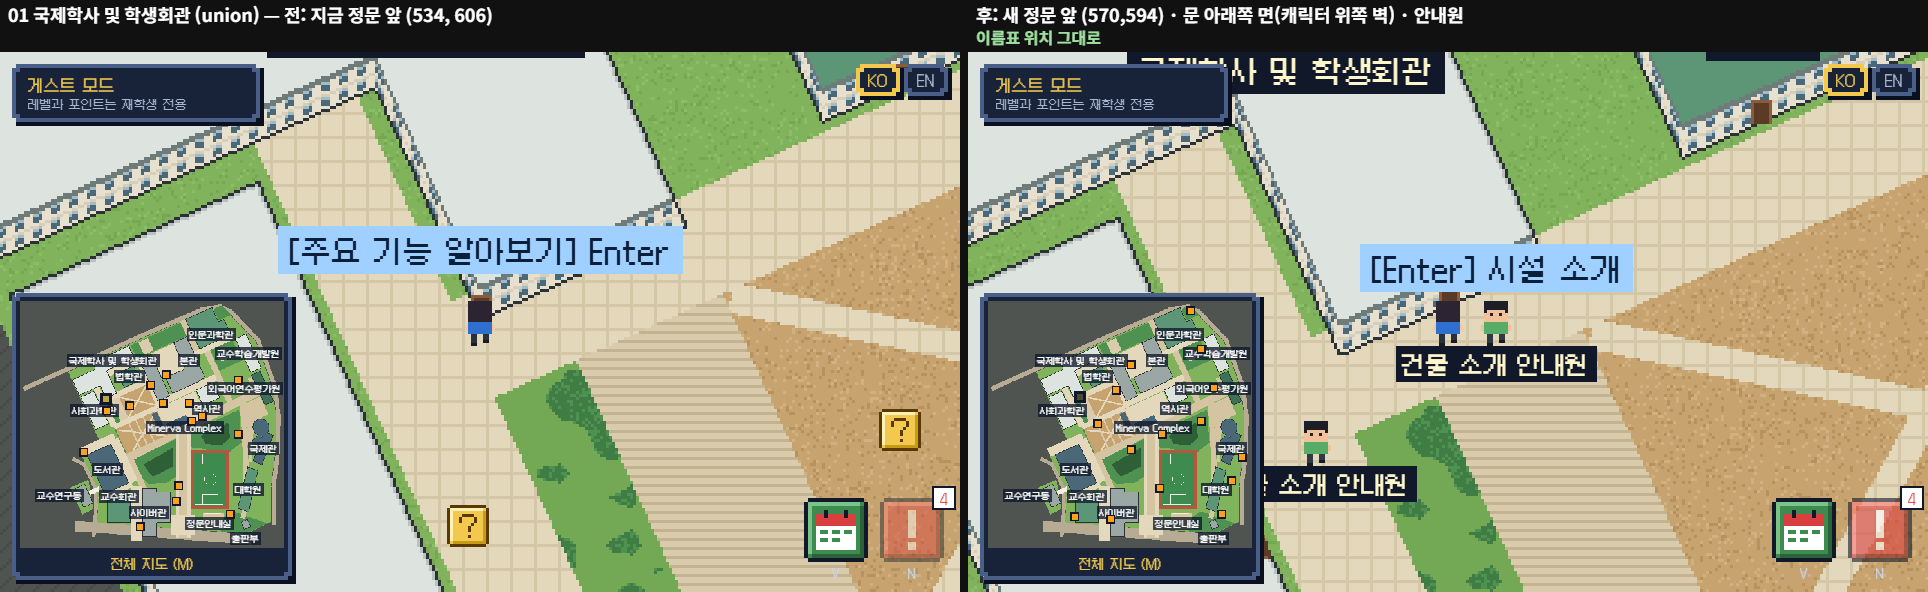
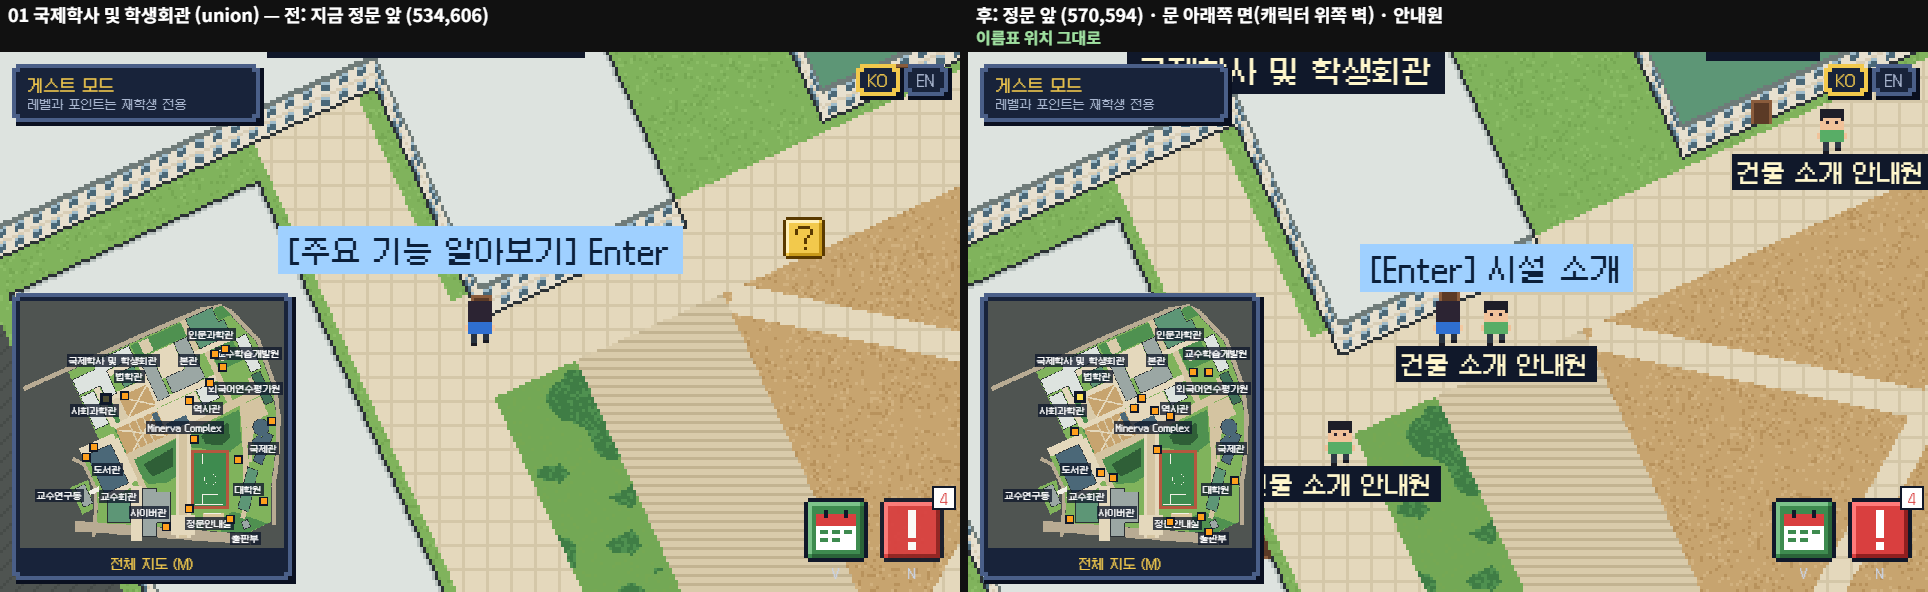
feat: 법학관에 건물 소개 안내원 추가, 정문안내실은 시설 소개 대상에서 제외, 안내원 글자 지붕 걸림 줄임
- 11/25 종헌 결정: 정문안내실(gatehouse)은 안내원 · "[Enter] 시설 소개" · 클릭/터치 창 모두 없음.
  buildingInfo.js 데이터는 그대로 두고 officeView.js GUIDE_EXCLUDED 한 곳에서만 뺌(이름표 · 미니맵 그대로)
- 법학관(law): 자동 계산 정문 옆에 안내원, 나머지와 같은 규칙(통로 · GUIDE_RANGE · Enter/클릭/터치)
- 안내원 글자가 지붕에 걸리면 통로를 막지 않는 한 벽에서 한 칸 더(16px) 물러섬(교수회관 · 대학원 · 사회과학관 등)
- 테스트: 정문안내실 안내원 없음 · 시설 소개 안 열림, 법학관 안내원 있음, 교수회관 글자가 지붕 밖
- 스크린샷: 법학관 · 정문안내실 추가, 안내원 자리가 바뀐 건물 다시 찍음

diff --git a/src/data/guides.js b/src/data/guides.js
@@ -1,10 +1,12 @@
-import { BUILDINGS, BUILDING_BASE, CELL_PX, FIXED_DOOR_IDS, doorFrontOf, doorOf, feetOverlap, fits, isReachable, matAt } from "./campusV2.js";
+import { BUILDINGS, BUILDING_BASE, CELL_PX, doorFrontOf, doorOf, feetOverlap, fits, isReachable, matAt } from "./campusV2.js";
+import { hasOfficeInfo } from "../ui/officeView.js";
 
 /*
  * 맵 v2에서 "건물 소개 안내원"(정문 옆 NPC)을 세울 자리를 정합니다(브라우저 API 없음 → 테스트 가능).
- * 대상: 정문을 지정한 11개 건물(campusV2Data.js DOOR_OVERRIDES). 사무실 안내가 있는지는 world.js가 봅니다.
+ * 대상: 사무실 안내가 있는 건물(officeView.js hasOfficeInfo, 제외 목록 GUIDE_EXCLUDED의 정문안내실은 빠짐).
+ *       정문을 지정한 11개 건물(DOOR_OVERRIDES)과 법학관(자동 계산 정문) — 11/25 종헌 결정.
  * - 문 앞 칸 옆(문을 바라보고 섰을 때 옆쪽): 아래 · 위쪽 면의 문은 좌우로, 왼쪽 · 오른쪽 면의 문은 위아래로 16 · 24 · 32px.
- *   벽에서 한 칸(8px) 물러선 자리도 후보로 봅니다(꺾인 외벽 · 글자가 지붕에 걸치는 자리).
+ *   벽에서 한두 칸(8 · 16px) 물러선 자리도 후보로 봅니다(꺾인 외벽 · 글자가 지붕에 걸치는 자리, 예: 교수회관).
  * - 걸어서 닿는 칸, 어느 문 앞 칸과도 겹치지 않음, 안내원 칸을 막아도 주변 길이 끊기지 않음.
  * - 그 가운데 안내원 아래 글자가 건물 지붕을 가장 적게 덮는 자리(글자는 되도록 땅 위). 같으면 벽에 붙은 자리 · 문에 가까운 자리.
  * - 건물 이름표는 이 글자 칸을 피해 자리를 잡습니다(buildingLabels.js placeBuildingLabel의 avoid).
@@ -46,13 +48,13 @@ const spots = new Map();
 export function guideSpotOf(building) {
   if (spots.has(building.id)) return spots.get(building.id);
   let best = null;
-  const front = FIXED_DOOR_IDS.includes(building.id) ? doorFrontOf(building) : null;
+  const front = hasOfficeInfo(building.id) ? doorFrontOf(building) : null;
   if (front) {
     const face = doorOf(building).face;
     const along = face === "left" || face === "right" ? [0, 1] : [1, 0];
     const outward = { down: [0, 1], up: [0, -1], right: [1, 0], left: [-1, 0] }[face];
     const fronts = BUILDINGS.map(doorFrontOf).filter(Boolean);
-    const offsets = [0, 8].flatMap((out) => [-16, 16, -24, 24, -32, 32].map((off) => [off, out]));
+    const offsets = [0, 8, 16].flatMap((out) => [-16, 16, -24, 24, -32, 32].map((off) => [off, out]));
     for (const [off, out] of offsets) {
       const spot = { x: front.x + along[0] * off + outward[0] * out, y: front.y + along[1] * off + outward[1] * out };
       if (!fits(spot.x, spot.y) || !isReachable(spot.x, spot.y)) continue;
@@ -68,7 +70,7 @@ export function guideSpotOf(building) {
 }
 
 // 모든 안내원 글자 칸(건물 이름표가 피할 자리)
-export const guideTextRects = () => FIXED_DOOR_IDS.map((id) => guideSpotOf(BUILDINGS.find((b) => b.id === id))).filter(Boolean).map(guideTextRect);
+export const guideTextRects = () => BUILDINGS.map(guideSpotOf).filter(Boolean).map(guideTextRect);
 
 // 퀴즈 상자(16×16, 가운데 기준) 자리가 안내원 · 안내원 글자와 떨어져 있는지
 export const awayFromGuides = (box, guides) =>

diff --git a/src/data/world.js b/src/data/world.js
@@ -9,10 +9,10 @@ import { awayFromGuides, guideSpotOf } from "./guides.js";
  * - 기본: v2(정문 진입로 기준 회전, 미터 다각형 → 텍스처, 1m 판정 격자) — src/data/campusV2.js
  * - 되돌리기: 주소에 ?map=v1 → 옛 타일맵(북쪽 위 88×90) — src/data/campus.js. 12/2 기능 동결 뒤 이상 없으면 지웁니다.
  * 두 맵 모두 월드 픽셀 좌표로 같은 모양의 값을 돌려줍니다.
- * guide: 정문 옆 "건물 소개 안내원" 자리(정문을 지정한 11개 건물 중 사무실 안내가 있는 건물만, 나머지는 null).
+ * guide: 정문 옆 "건물 소개 안내원" 자리(사무실 안내가 있는 건물만 — 정문 지정 11곳 + 법학관, 정문안내실 제외. 나머지는 null).
  */
 // 옛 맵(v1)은 옛 안내원 자리(npc), v2는 src/data/guides.js가 정한 자리.
-const guideOf = (p, spot) => (p.kind === "building" && v2.FIXED_DOOR_IDS.includes(p.id) && hasOfficeInfo(p.id) && spot ? spot : null);
+const guideOf = (p, spot) => (p.kind === "building" && hasOfficeInfo(p.id) && spot ? spot : null);
 export const MAP_VERSION =
   typeof location !== "undefined" && new URLSearchParams(location.search).get("map") === "v1" ? "v1" : "v2";
 

diff --git a/src/ui/officeView.js b/src/ui/officeView.js
@@ -7,8 +7,16 @@ import { BUILDING_INFO, byRoom, isChecked } from "../data/buildingInfo.js";
 // 안내원에서 이 거리(월드 px) 안이면 안내원 머리 위에 문구를 띄웁니다. 예전 입구 기준(OFFICE_RANGE 4타일)과 같게 시작합니다.
 export const GUIDE_RANGE = 4 * 16;
 
-// 사무실 · 시설 안내가 있는 건물인지(공식 페이지와 대조한 건물만). 없거나 확인 전이면 안내원을 세우지 않습니다.
+// 건물 정보(buildingInfo.js)는 그대로 두고, 건물 소개 안내원 · 시설 소개 창 대상에서만 빼는 건물과 이유.
+// 이름표 · 미니맵 · 전체 지도 표시는 그대로입니다.
+export const GUIDE_EXCLUDED = {
+  gatehouse: "11/25 종헌 결정: 기능 없음",
+};
+
+// 사무실 · 시설 안내가 있는 건물인지(공식 페이지와 대조한 건물만). 없거나 확인 전이거나 제외 목록에 있으면
+// 안내원을 세우지 않고 시설 소개 창도 열리지 않습니다.
 export const hasOfficeInfo = (placeId) => {
+  if (Object.hasOwn(GUIDE_EXCLUDED, placeId)) return false;
   const info = BUILDING_INFO[placeId];
   return Boolean(info && isChecked(info));
 };

diff --git a/docs/ARCHITECTURE.md b/docs/ARCHITECTURE.md
@@ -96,7 +96,7 @@ class explore,quiz,notice,progress,rules,userDb,login,limiter,mapInfo,newApi,vec
 
 | 상자 | 주요 파일 | 담당 |
 | --- | --- | --- |
-| 캠퍼스 탐험 | `src/scenes/CampusScene.js`, `src/scenes/MapScene.js`(전체 지도 · 나침반), `src/data/world.js`(맵 선택: 기본 v2, `?map=v1`이면 옛 타일맵 — 12/2 동결 뒤 이상 없으면 v1 삭제). **v2**: `src/data/campusV2Data.js`(미터 좌표 다각형) → `src/data/campusV2.js`(정문 진입로 기준 65.6° 회전 · 픽셀 채우기 · 1m 판정 격자 · 발 상자 이동 · 입구 · 퀴즈 상자 자리) → `src/gfx/campusV2Paint.js` · `campusV2Texture.js`(2×2 조각 텍스처, 축소 지도). **v1**: `src/data/campus.js`(88×90 타일), `src/gfx/textures.js`. 기준은 [`docs/GRAPHICS.md`](GRAPHICS.md). 건물 이름표: `src/data/buildingLabels.js`(입구에 가까운 지붕 위, 넘치면 작게 → 두 줄 → 지붕 가운데, 캐릭터보다 아래 깊이, 안내원 글자 칸은 피함). **정문 고정값**: `campusV2Data.js` `DOOR_OVERRIDES`(11개 건물, 11/25 종헌 지정 자리 · 외벽 면) → `campusV2.js` `computeDoors`가 자동 입구를 덮어씀, 문 그림은 면 방향대로. **건물 소개 안내원**: `src/data/guides.js`(정문 옆 자리 · 글자 칸) → `world.js` `place.guide` → `CampusScene`(안내원 · "건물 소개 안내원" 글자 · 머리 위 "[Enter] 시설 소개", Enter · 안내원 클릭 · 문구 터치로 `src/ui/officeOverlay.js` 창, 거리 `src/ui/officeView.js` `GUIDE_RANGE`, 안내원 칸은 지나갈 수 없음). 테스트 `tests/buildingGuide.test.js` · `tests/campusV2.test.js`(통로 · 끼임 방지 포함) · `tests/buildingLabels.test.js` · `tests/campusDrawn.test.js`(모든 건물이 텍스처 · 축소 지도에 그려지고 윤곽선이 있는지, 두 줄 이름) · `tests/campusLayout.test.js`(v1) | 이종헌 |
+| 캠퍼스 탐험 | `src/scenes/CampusScene.js`, `src/scenes/MapScene.js`(전체 지도 · 나침반), `src/data/world.js`(맵 선택: 기본 v2, `?map=v1`이면 옛 타일맵 — 12/2 동결 뒤 이상 없으면 v1 삭제). **v2**: `src/data/campusV2Data.js`(미터 좌표 다각형) → `src/data/campusV2.js`(정문 진입로 기준 65.6° 회전 · 픽셀 채우기 · 1m 판정 격자 · 발 상자 이동 · 입구 · 퀴즈 상자 자리) → `src/gfx/campusV2Paint.js` · `campusV2Texture.js`(2×2 조각 텍스처, 축소 지도). **v1**: `src/data/campus.js`(88×90 타일), `src/gfx/textures.js`. 기준은 [`docs/GRAPHICS.md`](GRAPHICS.md). 건물 이름표: `src/data/buildingLabels.js`(입구에 가까운 지붕 위, 넘치면 작게 → 두 줄 → 지붕 가운데, 캐릭터보다 아래 깊이, 안내원 글자 칸은 피함). **정문 고정값**: `campusV2Data.js` `DOOR_OVERRIDES`(11개 건물, 11/25 종헌 지정 자리 · 외벽 면) → `campusV2.js` `computeDoors`가 자동 입구를 덮어씀, 문 그림은 면 방향대로. **건물 소개 안내원**(정문 지정 11곳 + 법학관, 정문안내실은 `officeView.js` `GUIDE_EXCLUDED`로 제외): `src/data/guides.js`(정문 옆 자리 · 글자 칸) → `world.js` `place.guide` → `CampusScene`(안내원 · "건물 소개 안내원" 글자 · 머리 위 "[Enter] 시설 소개", Enter · 안내원 클릭 · 문구 터치로 `src/ui/officeOverlay.js` 창, 거리 `src/ui/officeView.js` `GUIDE_RANGE`, 안내원 칸은 지나갈 수 없음). 테스트 `tests/buildingGuide.test.js` · `tests/campusV2.test.js`(통로 · 끼임 방지 포함) · `tests/buildingLabels.test.js` · `tests/campusDrawn.test.js`(모든 건물이 텍스처 · 축소 지도에 그려지고 윤곽선이 있는지, 두 줄 이름) · `tests/campusLayout.test.js`(v1) | 이종헌 |
 | 빠른 검색창 | `src/ui/searchBar.js` → `src/data/askApi.js` → `api/ask.js` (11/20~ `shared/academicDate.js`: 한국 시간 오늘 날짜 · 현재 학기를 지시문에 붙이고, 답변의 날짜(연-월-일 · 월-일)나 연도(YYYY학년도 · YYYY년)가 근거 조각에 없으면 "찾지 못함"으로 바꿈. 테스트 `tests/academicDate.test.js`. 11/20~ `api/_lib/decompose.js`: 질문을 하위 질문 최대 2개로 쪼개(`parseQueries`) 하위 질문마다 동시에 벡터 검색하고 `mergeDocs`로 합침, RPC는 `CHUNKS_RPC`(match_chunks · match_chunks_next만 허용). 테스트 `tests/decompose.test.js`. `api/_lib/answerFormat.js`: 답변의 줄 맨 앞 번호 목록을 지우고, 넘긴 자료 수를 넘는 인용 번호를 지움. 11/22~ 출력 상한(400)에 걸려 끊긴 답은 끝난 문장까지만(`trimTruncated`). 테스트 `tests/answerFormat.test.js`) | 신중혁 |
 | O/X 퀴즈 | `src/scenes/QuizScene.js`, `src/quizBoxes.js`(상자 자리는 `world.js` `WORLD.quizSpots`), `src/quizProgress.js`, `src/data/quiz.js` | 이종헌(배치) · 신중혁(문항) |
 | 마감 임박 공지 | `src/ui/deadlineOverlay.js` → `api/deadlines.js` ← `shared/deadlines.js` | 이종헌(화면) · 임현규(데이터) · 신중혁(추출) |

diff --git a/docs/GRAPHICS.md b/docs/GRAPHICS.md
@@ -39,7 +39,7 @@
 - 나무 사이 산책 숲 · 가로수 · 골목 · 건물 옆 통로 · 주차장 · 광장 · 계단 단 · 운동장은 모두 걸을 수 있습니다.
 - 캐릭터 발 상자(10×7px = 2.5m × 1.75m)가 막힌 칸에 닿지 않게 움직이고, 막히면 x · y 따로 → ±35° · ±65° 틀어서 비스듬한 벽을 따라 미끄러집니다(`moveFeet`).
 - 입구는 건물의 화면 아래쪽 벽(문이 보이는 면) 가운데에서 가장 가까운, 걸어서 닿는 칸에 자동으로 둡니다. 아래쪽 벽에 닿는 칸이 없으면 옆면 · 위쪽 면(교수연구동은 건널목 쪽 옆면).
-- **정문 고정값(11/25):** 국제학사 · 사회과학관 · 도서관 · 교수회관 · 사이버관 · 대학원 · 국제관 · 외국어연수평가원 · 교수학습개발원 · 인문과학관 · 본관 11곳은 자동 계산 대신 `campusV2Data.js` `DOOR_OVERRIDES`(문 앞 자리 미터 좌표 + 외벽 면)를 씁니다. 문 그림은 그 면에서 건물 안쪽으로 그리고(아래쪽 면 7×8, 위쪽 면은 아래로 7×8, 옆면 6×8), 건물 밖으로 나가는 픽셀은 버립니다. 문 앞 옆에는 "건물 소개 안내원"이 섭니다(`src/data/guides.js`).
+- **정문 고정값(11/25):** 국제학사 · 사회과학관 · 도서관 · 교수회관 · 사이버관 · 대학원 · 국제관 · 외국어연수평가원 · 교수학습개발원 · 인문과학관 · 본관 11곳은 자동 계산 대신 `campusV2Data.js` `DOOR_OVERRIDES`(문 앞 자리 미터 좌표 + 외벽 면)를 씁니다. 문 그림은 그 면에서 건물 안쪽으로 그리고(아래쪽 면 7×8, 위쪽 면은 아래로 7×8, 옆면 6×8), 건물 밖으로 나가는 픽셀은 버립니다. 문 앞 옆에는 "건물 소개 안내원"이 섭니다(`src/data/guides.js`, 법학관은 자동 계산 정문 옆, 정문안내실은 없음).
 - 테스트(`tests/campusV2.test.js`): 공식 좌표가 건물 안 · 건물 겹침 없음 · 입구 앞 · 안내원 · 퀴즈 상자 자리가 걸을 수 있고 SPAWN에서 닿음 · **통로 10곳**(대학원 옆, 국제관 옆, 법학관–학생회관 사이, 사회과학관 앞, 도서관 서쪽 · 동쪽, 사이버관–교수회관 사이, 정문 진입로 차도 · 양쪽 보도) · **끼임 방지**(SPAWN → 모든 입구 BFS 경로를 실제 이동 함수로 따라 걸어 도착, 진입로를 위로만 눌러 끝까지 감).
 
 ### 0-4. 팔레트 v2 (길은 베이지 계열)

diff --git a/docs/ROADMAP.md b/docs/ROADMAP.md
@@ -379,4 +379,4 @@ gantt
 | 2026-11-24 | 11/24 예산 지급 일정 반영(이번 주 안 예상, 입금 전 결제 없음) | 이종헌 |
 | 2026-11-24 | 11/24 대회 안내 메일 반영: 지원금 3종(개발지원비 50만 · AI툴 지원금 20만 12/1 · NCP 크레딧 50만 상당, 증빙 없음), 12/1 AI툴 지원금 마일스톤(예비비로), 12/6 제출물 2가지(PPT · 결과물 링크), 발표 10분 + 질의응답 5분, 12/2 전 시연 영상 · 스크린샷 확보 | 이종헌 |
 | 2026-11-25 | #71 사무실 안내 창 피드백 반영: 동아리방 · 학과사무실 묶음 항목(층 → 묶음 → 목록 → 상세), 지하층 · 건물 밖 묶음, 호실만 표시, 88p 전화, AED 삭제, 외부 참고 출처 | 이종헌 |
-| 2026-11-25 | 11개 건물 정문 위치를 종헌 지정 자리(스크린샷 11장 · 게임 화면 대조)로 고정(`DOOR_OVERRIDES`), 정문 옆 "건물 소개 안내원" NPC 11명 → "[Enter] 시설 소개"(이전 "[주요 기능 알아보기]")로 사무실 안내 창, 정문 쪽 문구 삭제. 법학관 · 정문안내실은 안내원 대상이 아니라 시설 소개 창이 열리지 않음(후속 결정 필요) | 이종헌 |
+| 2026-11-25 | 11개 건물 정문 위치를 종헌 지정 자리(스크린샷 11장 · 게임 화면 대조)로 고정(`DOOR_OVERRIDES`), 정문 옆 "건물 소개 안내원" NPC 11명 → "[Enter] 시설 소개"(이전 "[주요 기능 알아보기]")로 사무실 안내 창, 정문 쪽 문구 삭제. 11/25 결정: 법학관에도 안내원(자동 계산 정문 옆), 정문안내실은 안내원 · 시설 소개 없음(`GUIDE_EXCLUDED`, 건물 정보는 유지), 안내원 글자가 지붕에 걸리면 벽에서 한 칸 더 물러섬(교수회관 등) | 이종헌 |
